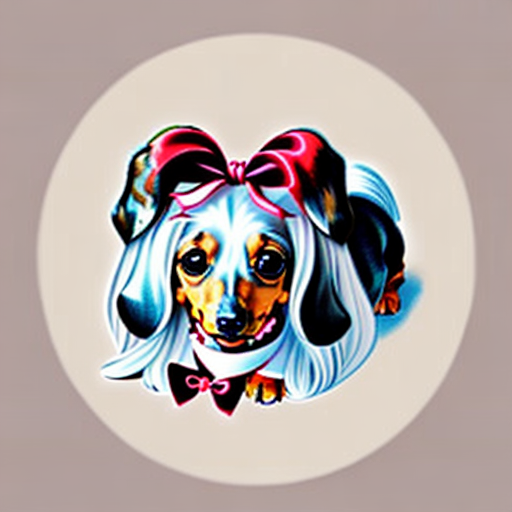
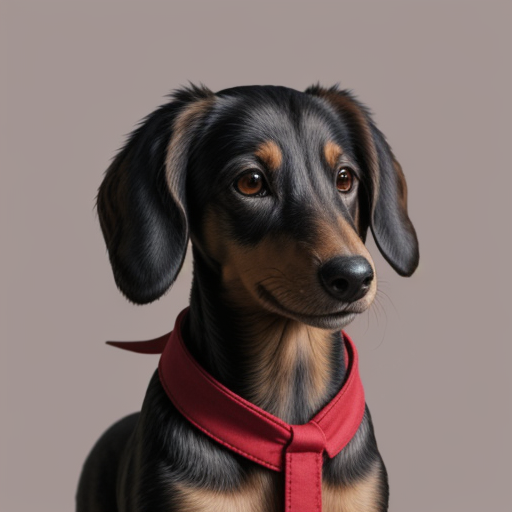
fix

diff --git a/index.ts b/index.ts
@@ -21,12 +21,17 @@ const generateImage = async (prompt: string): Promise<Uint8Array | null> => {
         },
         body: JSON.stringify({
           prompt,
-          negative_prompt:
-            "Images that are rough, images that do not identify the content specified in the prompt, or images that are not faithful to the propmt.",
+          negative_prompt: `
+          blurry, low quality, rough, distorted, incorrect colors, unrelated animals, cats, birds, short-haired, short fur, smooth fur, 
+          missing ribbon, wrong ear, missing ears, left ear ribbon, messy background, abstract elements, cartoonish, unrealistic lighting, 
+          overexposed, underexposed, incorrect proportions, fat, overweight, thin, skeletal, aggressive, scary, sad, angry, dull, 
+          wrong hair color, no bronze hair, black fur, gray fur, missing details, low contrast, muted colors, pixelated, low resolution,
+          text, watermark, logo, extra limbs, extra ears, missing legs, cropped, out of frame, incomplete, wrong breed, toy dog, wolf, fox, only two ears.
+          `,
           height: 512,
           width: 512,
           num_steps: 20,
-          guidance: 10000,
+          guidance: 1,
         }),
       }
     );
